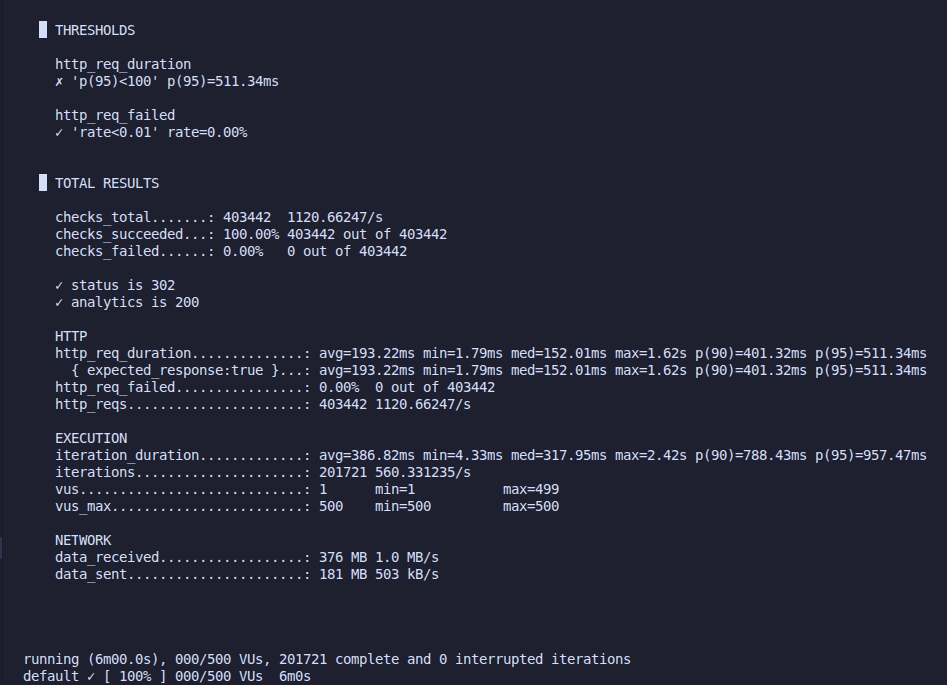
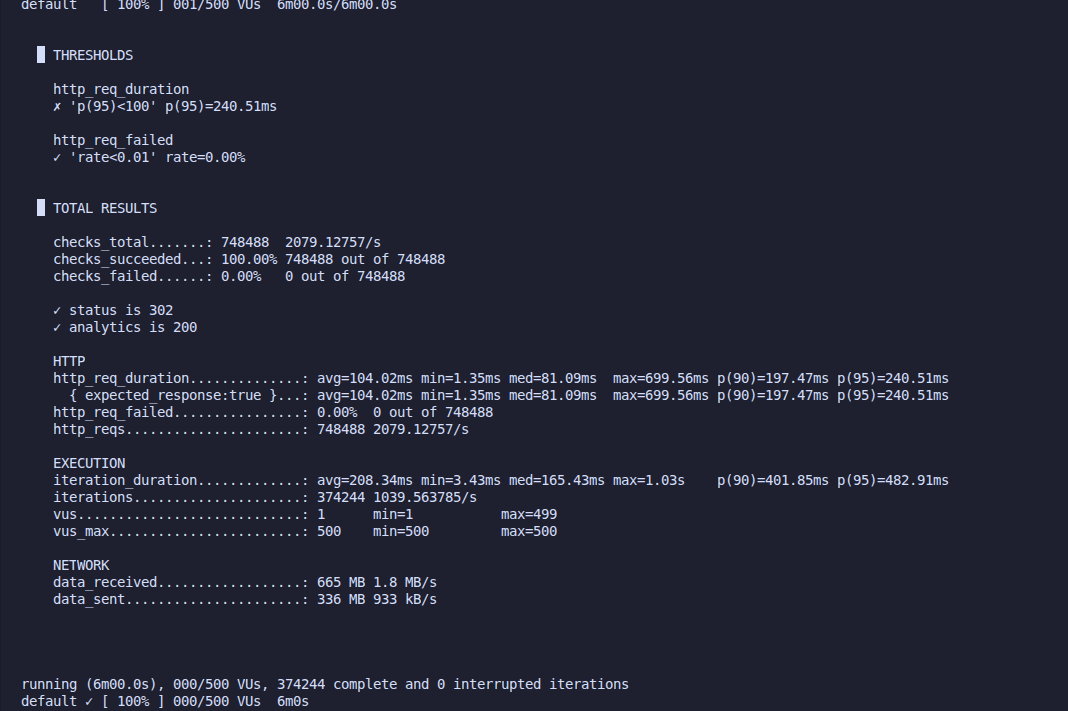
chore: updates documentation

Changed region(s): [[0.0, 0.0, 0.9799, 0.8584], [0.0, 0.9504, 0.6737, 1.0], [0.245, 0.7971, 0.4593, 0.8584]]

diff --git a/README.md b/README.md
@@ -3,7 +3,7 @@
 ![PHP Version](https://img.shields.io/badge/php-8.3-blue.svg)
 ![Laravel Version](https://img.shields.io/badge/laravel-11-red.svg)
 ![License](https://img.shields.io/badge/license-MIT-green.svg)
-![Performance](https://img.shields.io/badge/status-1.1k_req/s-orange.svg)
+![Performance](https://img.shields.io/badge/status-2k_req/s-orange.svg)
 
 ---
 # PT-BR
@@ -25,7 +25,7 @@ Focado em estabilidade e experiência do usuário.
 
 ### Stress Test (500 VUs - Full Load)
 Focado em encontrar o limite de vazão da infraestrutura.
-* **Throughput:** 1.120 req/s
+* **Throughput:** 2.079 req/s
 * **Taxa de Sucesso:** 100% (Zero falhas sob estresse máximo)
 <p align="center"><img src="docs/StressTestResult.png" width="800"></p>
 
@@ -78,7 +78,7 @@ Focused on stability and user experience.
 
 Focused on finding the throughput limits of the infrastructure.
 
-* **Throughput:** 1,120 req/s
+* **Throughput:** 2,079 req/s
 * **Success Rate:** 100% (Zero failures under maximum stress)
 
 <p align="center"><img src="docs/StressTestResult.png" width="800"></p>
